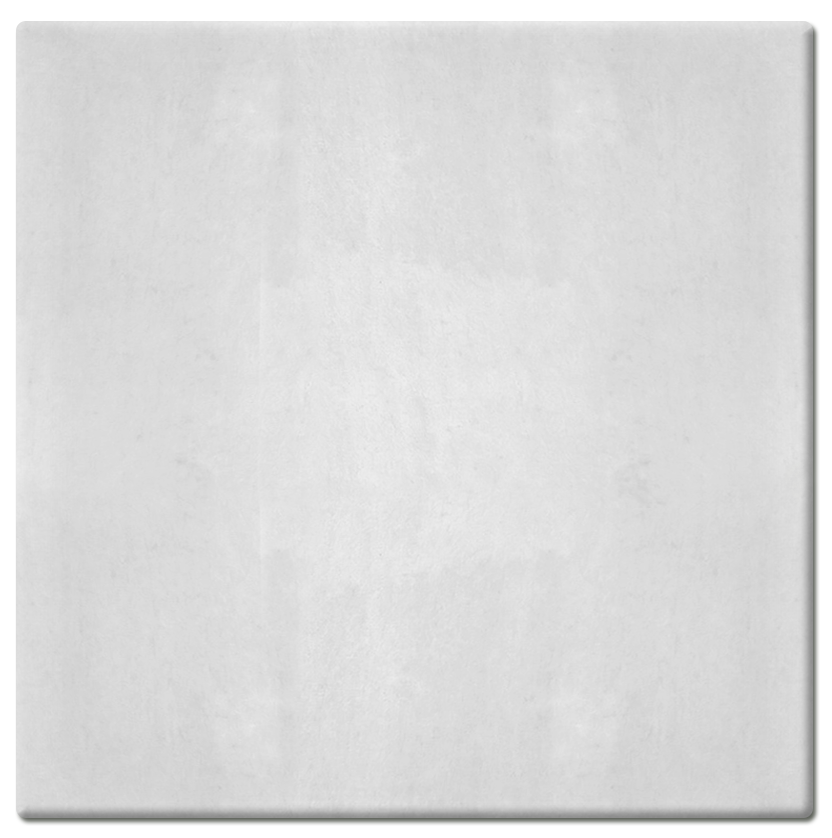
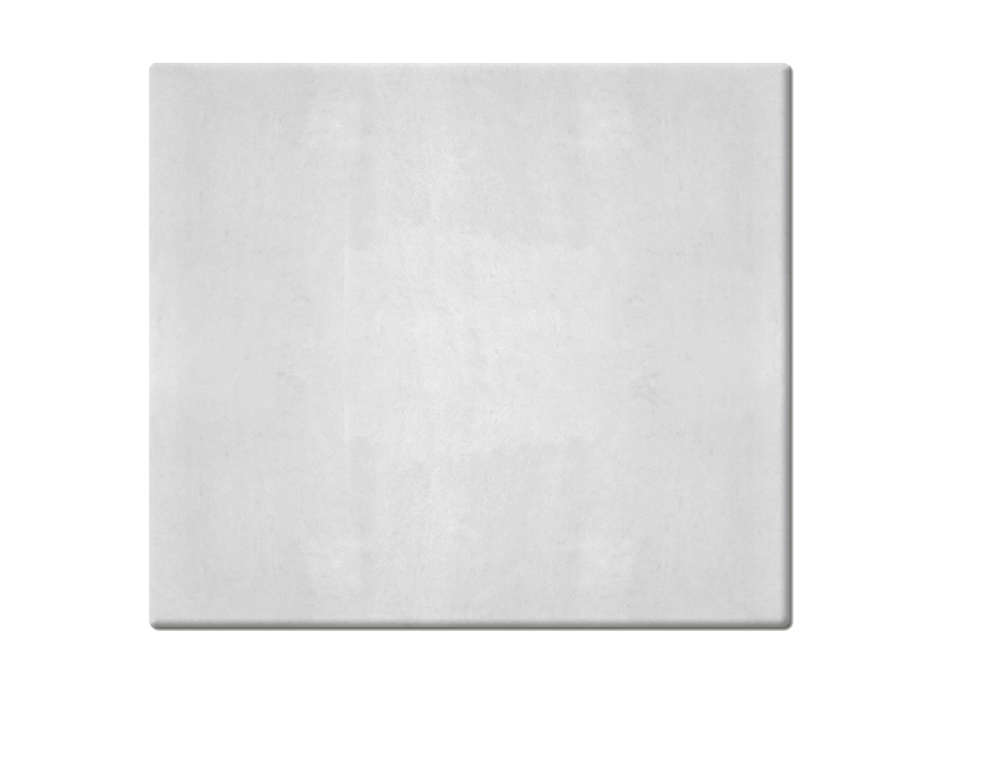
Size Options

diff --git a/app/Controller/RugsController.php b/app/Controller/RugsController.php
@@ -72,9 +72,19 @@ class RugsController extends AppController {
         $bg->distortImage(Imagick::DISTORTION_PERSPECTIVE, $controlPoints, true);
         return $bg;
     }
+    private function getBgPresp2($bg, $presp = 60){
+        $controlPoints = array(
+            $presp, 0, 0, -$presp, # top left ( x1, y1 , x2 ,y2)
+            $bg->getimagewidth() - $presp, 0, $bg->getimagewidth(), 0, # top right ( x1, y1 , x2 ,y2) 
+            $bg->getimagewidth(), $bg->getimageheight(), $bg->getimagewidth() + $presp, $bg->getimageheight() - $presp, # bottom right ( x1, y1 , x2 ,y2)
+            0, $bg->getimageheight(), -$presp, $bg->getimageheight() + $presp # bottom left ( x1, y1 , x2 ,y2)
+        );
+        $bg->distortImage(Imagick::DISTORTION_PERSPECTIVE, $controlPoints, true);
+        return $bg;
+    }
     private function genImgRound($rugpngs, $colors = array(), $location = "files/temp/") {
         if (is_file($location . "round.png")) {
-            return $location;
+           // return $location;
         }
         ini_set("max_execution_time", -1);
         $layers = array();
@@ -120,11 +130,10 @@ class RugsController extends AppController {
         $pre->destroy();
         /* Creates Preview Image Over */
 
-        
-
+        $bg2 = $this->getBgPresp2($bg->clone(),110);
         $rnd = new Imagick("files/templates/new/circle/angle.png");
-        $bg->scaleimage(0, $rnd->getimageheight());
-        $rnd->compositeimage($bg, \Imagick::COMPOSITE_MULTIPLY, 0, 0);
+        $bg2->scaleimage(0, $rnd->getimageheight());
+        $rnd->compositeimage($bg2, \Imagick::COMPOSITE_MULTIPLY, 0, 0);
         $rnd->mergeimagelayers(Imagick::LAYERMETHOD_COALESCE);
 
         $rnd->compositeimage(new Imagick("files/templates/new/circle/angle_trim.png"), \Imagick::COMPOSITE_COPYOPACITY, 0, 0, Imagick::CHANNEL_ALPHA);
@@ -135,7 +144,7 @@ class RugsController extends AppController {
         $rnd->writeimage();
         $rnd->destroy();
         
-        
+         
         $rnd = new Imagick("files/templates/new/circle/flip.png");
         $bg->scaleimage(0, $rnd->getimageheight()+50);
         $rnd->compositeimage($bg, \Imagick::COMPOSITE_MULTIPLY, 0, -30);
@@ -423,12 +432,12 @@ class RugsController extends AppController {
         }
         $bg->mergeimagelayers(Imagick::LAYERMETHOD_COALESCE);
 
-
-        $bg = $this->getBgPresp($bg,60);
+        
+        $bg2 = $this->getBgPresp($bg,60);
 
         $rnd = new Imagick("files/templates/new/square/angle.png");
-        $bg->scaleimage(0, $rnd->getimageheight());
-        $rnd->compositeimage($bg, \Imagick::COMPOSITE_MULTIPLY, 0, 0);
+        $bg2->scaleimage(0, $rnd->getimageheight());
+        $rnd->compositeimage($bg2, \Imagick::COMPOSITE_MULTIPLY, 0, 0);
         $rnd->mergeimagelayers(Imagick::LAYERMETHOD_COALESCE);
 
         $rnd->compositeimage(new Imagick("files/templates/new/square/angle_trim.png"), \Imagick::COMPOSITE_COPYOPACITY, 0, 0, Imagick::CHANNEL_ALPHA);
@@ -440,8 +449,8 @@ class RugsController extends AppController {
         $rnd->destroy();
 
         $rnd = new Imagick("files/templates/new/square/flip.png");
-        $bg->scaleimage(0, $rnd->getimageheight()+40);
-        $rnd->compositeimage($bg, \Imagick::COMPOSITE_MULTIPLY, 0, 0);
+        $bg2->scaleimage(0, $rnd->getimageheight()+40);
+        $rnd->compositeimage($bg2, \Imagick::COMPOSITE_MULTIPLY, 0, 0);
         $rnd->mergeimagelayers(Imagick::LAYERMETHOD_COALESCE);
 
         $rnd->compositeimage(new Imagick("files/templates/new/square/flip_trim.png"), \Imagick::COMPOSITE_COPYOPACITY, 0, 0, Imagick::CHANNEL_ALPHA);
@@ -455,11 +464,12 @@ class RugsController extends AppController {
         $rnd->destroy();
 
         $rnd = new Imagick("files/templates/new/square/straight.png");
-        $bg->scaleimage(0, $rnd->getimageheight());
-        $rnd->compositeimage($bg, \Imagick::COMPOSITE_MULTIPLY, 0, 20);
+        $bg2->rotateimage("#fff", 23);
+        $bg2->scaleimage(0, sqrt(pow($rnd->getimageheight(),2)+pow($rnd->getimagewidth(),2))+120);
+        $rnd->compositeimage($bg2, \Imagick::COMPOSITE_MULTIPLY, -130, -200);
         $rnd->mergeimagelayers(Imagick::LAYERMETHOD_COALESCE);
 
-        $rnd->compositeimage(new Imagick("files/templates/new/square/straight_trim.png"), \Imagick::COMPOSITE_COPYOPACITY, 0, 0, Imagick::CHANNEL_ALPHA);
+        $rnd->compositeimage(new Imagick("files/templates/new/square/straight.png"), \Imagick::COMPOSITE_COPYOPACITY, 0, 0, Imagick::CHANNEL_ALPHA);
         $rnd->setimageformat("png");
         $rnd->setImageFileName($location . "square2.png");
         $rnd->setinterlacescheme(\Imagick::INTERLACE_PNG);
